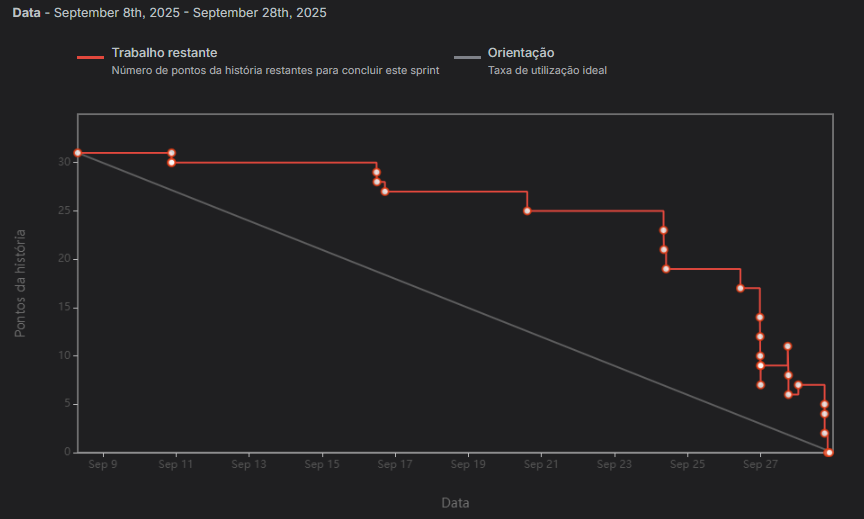
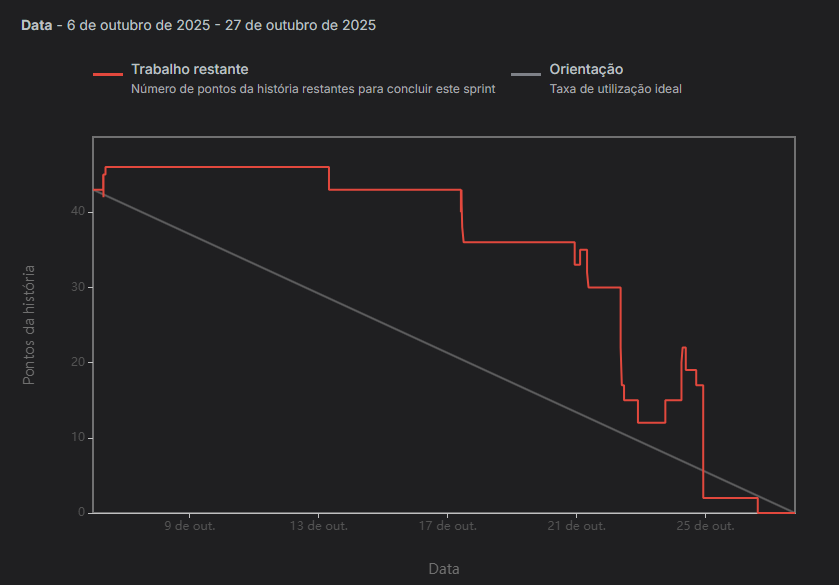
doc: Adicionando documentação da segunda sprint
On branch sprint2
Changes to be committed:
- modified:   .gitmodules
- modified:   Backend
- modified:   Frontend
- modified:   Processador-de-dados
- modified:   README.md
- new file:   Receptor-de-dados
- modified:   mgt/burndown.png

diff --git a/README.md b/README.md
@@ -15,36 +15,32 @@ No início do desenvolvimento da aplicação de controle de ponto eletrônico, a
 <span id="objetivos">
 
 # 🎯 Objetivos da Sprint
+O principal objetivo nessa sprint a ser comprido era **proporcionar a recepção de dados à partir de uma conexão mqtt**. E de forma adicional também desenvolvemos a **Dashboard da aplicação.**
+
 Os requisitos funcionais atendidos nesta sprint foram:
 
-- ✔ **RFN04. Configuração de parâmetros de estações:** <br> A aplicação deve ter a capacidade de configurar individualmente a unidade de medida dos parâmetros recebidos além dos nomes de suas respectivas estações; <br> <br>
-- ✔ **RFN05. Alertas meteorológicos:** <br> A aplicação deve enviar alertas e notificações baseadas em condições meteorológicas específicas; <br> <br>
-- ✔ **RFN07. Cadastro e gestão de administradores:** <br> A aplicação deve ter a capacidade de cadastrar e gerenciar usuários administradores; <br> <br>
+- ✔ **RFN02. Coleta de dados meteorológicos:** <br> A aplicação deve ter a capacidade de coletar e armazenar os dados enviados pelas estações meteorológicas, a partir de diferentes sensores (dinâmico), de forma segura e persistente bem como interpretar tais dados; <br> <br>
+- ✔ **RFN03. Dashboards:** <br> A aplicação deve conter uma dashboard que apresenta de forma gráfica os parâmetros das estações, individualmente e de forma geral; <br> <br>
 
 <br> 
 
 <span id="entregas">
 
 # 📲 Entregas
-Durante esta sprint, o time entregou artefatos SCRUM validados, como o Backlog do Produto, o Backlog das Sprints e as User Stories, com a participação direta do P.O. e comunicação constante com o cliente. Para entender e alinhar as expectativas do cliente, foi criado um protótipo inicial no Figma, que ajudou a definir a identidade visual e o design do sistema. Esse protótipo foi validado com o cliente e traduzido em uma aplicação React, integrando as funcionalidades acordadas para esta sprint.
+Durante esta sprint, o time entregou artefatos SCRUM validados, como o Backlog do Produto, o Backlog das Sprints e as User Stories, com a participação direta do P.O. e comunicação constante com o cliente. Para entender e alinhar as expectativas do cliente. Dito isso, juntamente ao cliente, acordamos entregar as seguintes funcionalidades:
 
-### RF 04: Configuração de parâmetros de estações
-O usuário tem a capacidade de cadastrar parâmetros e atrelá-los às estações, definindo quais estações carregam quais tipos de parâmetros, além de, claro, possuir a capacidade de cadastrar e administrar as estações do sistema;
+### RF 02: Coleta de dados meteorológicos:
+A aplicação deve ter a capacidade de coletar e armazenar os dados enviados pelas estações meteorológicas, a partir de diferentes sensores (dinâmico), de forma segura e persistente bem como interpretar tais dados;
 
-### RF 05: Alertas meteorológicos
-O usuário tem a capacidade de cadastrar e administrar tipos de alertas meteorológicos na aplicação dessa forma dando a capacidade do usuário de 
-preparar alertas específicos após cada recepção; 
-
-### RF 03: Cadastro e gestão de administradores
-O usuário tem a capacidade de cadastrar e gerir administradores da aplicação. Apenas esses são capazes de realizar os cadastros préviamente citados.
-
+### RF 03: Dashboards:
+A aplicação deve conter uma dashboard que apresenta de forma gráfica os parâmetros das estações, individualmente e de forma geral;
 
 <br />
 
 <span id="metricas">
 
 # 📈 Métricas do Time
-A sprint foi composta por 8 user stories e 27 tasks. Embora o gráfico de burndown mostre que o trabalho foi concentrado no final, a realidade é que o time começou a trabalhar antes da sprint, realizando atividades como a criação do mockup, definição de DoR e DoD, elaboração do Backlog da Sprint, e configuração das branches de backend e frontend.
+A sprint foi composta por 3 user stories e 14 tasks. Embora o gráfico de burndown mostre que o trabalho foi concentrado no final, a realidade é que o time começou a trabalhar antes da sprint, realizando atividades como a criação do mockup, definição de DoR e DoD, elaboração do Backlog da Sprint, e configuração das branches de backend e frontend.
 
 O gráfico de burndown mostra a evolução do trabalho ao longo da sprint. A linha horizontal representa o tempo, ou seja, as datas da sprint, enquanto a linha vertical indica os pontos de história que representam o esforço total planejado para a sprint. A linha cinza mostra a taxa de progresso ideal, indicando como o trabalho deveria ser realizado de maneira constante ao longo dos dias. Já a linha vermelha indica o trabalho realizado, que no gráfico reflete a conclusão das User Stories 100% finalizadas. O pico no gráfico ocorre quando as User Stories são concluídas, explicando a aparente concentração de trabalho no final da sprint. Na prática, a maior parte das subtasks já estava concluída antes das últimas entregas.
 
@@ -62,14 +58,9 @@ O gráfico de burndown mostra a evolução do trabalho ao longo da sprint. A lin
 
 | **RFN** | **Rank** | **Prioridade** | **User Story** | **Estimativa** | **Sprint** | **Critérios de Aceitação** |
 |---------|----------|----------------|----------------|----------------|------------|---------------------------|
-| 04 | 01 | Alta | Eu como ADMINISTRADOR e USUÁRIO COMUM desejo visualizar as estações conectadas | 08 | 1 | - TODOS OS USUÁRIOS devem visualizar as estações conectadas; <br> - Todas as estações devem exibir o nome e imagem referente; <br> - Paginação contendo 15 itens cada; Barra de pesquisa por nome; |
-| 04 | 02 | Alta | Eu como ADMINISTRADOR E USUÁRIO COMUM desejo visualizar os parâmetros dentro de uma estação. | 03 | 1 | - TODOS OS USUÁRIOS devem visualizar os parâmetros das estações e suas devidas unidades se cadastradas; <br> - Parâmetros sem unidade de medida definida devem ser sinalizados por meio um elemento gráfico; |
-| 04 | 03 | Alta | Eu como ADMINISTRADOR desejo cadastrar e alterar parâmetros de uma estação. | 05 | 1 | - O ADMINISTRADOR deve conseguir alterar as unidades de medida dos parâmetros de uma estação em específico; <br> - Os parâmetros não alterados devem permanecer com seus respectivos valores após alteração de outros; <br> - Deve ser gravada a data da alteração de tal parâmetro; |
-| 04 | 04 | Alta | Eu como ADMINISTRADOR desejo alterar o nome e imagem da estação conectada. | 02 | 1 | - O ADMINISTRADOR deve conseguir alterar o nome e imagem de uma estação; <br> - O nome ou imagem não alterado deve permanecer o mesmo após alteração do outro; <br> - Nome é um campo obrigatório; |
-| 07 | 05 | Alta | Eu como ADMINISTRADOR desejo efetuar login para acessar funcionalidades exclusivas do meu papel. | 08 | 1 | - O ADMINISTRADOR deve conseguir efetuar login devidamente na aplicação; |
-| 07 | 06 | Baixa | Eu como SUPER ADMINISTRADOR desejo cadastrar outros usuários administradores para facilitar a administração da aplicação. | 03 | 1 | - O SUPER ADMINISTRADOR deve conseguir cadastrar devidamente um novo administrador; | 
-| 07 | 07 | Baixa | Eu como ADMINISTRADOR desejo alterar minhas próprias informações de cadastro para a manutenção do perfil. | 02 | 1 | - O ADMINISTRADOR deve conseguir alterar suas informações com sucesso; |
-| 05 | 08 | Baixa |Eu como ADMINISTRADOR desejo cadastrar tipos de alertas para visualizar que tipo de alertas os usuários poderão receber. | 03 | 1 | - O ADMINISTRADOR deve conseguir cadastrar/editar tipos com sucesso; <br> - TODOS OS USUÁRIOS devem poder visualizar os tipos de alertas cadastrados | 
+| 02 | 09 | Alta | Eu como ADMINISTRADOR desejo receber dados simulados para alimentar a aplicação. | 13 | 2 | A aplicação deve receber dados (mockados por hora) dos sensores devidamente; <br> - A aplicação deve armazenar os dados da aplicação devidamente; <br> - A aplicação deve garantir a recepção dos dados mesmo sob requisições grandes; |
+| 02 | 10 | Alta | Eu como ADMINISTRADOR E USUÁRIO COMUM desejo que os dados recebidos sejam interpretados para dados palpáveis. | 05 | 2 | - A aplicação deve interpretar os dados recebidos conforme os parâmetros configurados por estação. | 
+| 03 | 11 | Média | Eu como ADMINISTRADOR E USUÁRIO COMUM desejo visualizar uma dashboard com gráficos informativos sobre a variação dos parâmetros das estações. | 08 | 2 | As dashboards devem possuir filtros por período e estação; <br> - O usuário deve ter a capacidade de definir a unidade de medida padrão da dashboard; <br> - As dashboards devem apresentar conceitos estatísticos; | 
 
 
 <span id="links">
@@ -77,8 +68,9 @@ O gráfico de burndown mostra a evolução do trabalho ao longo da sprint. A lin
 # 🔗 Links úteis
 
 - Tags geradas em cada repositório que simbolizam o fim da 1ª sprint:
-  - [Repositório frontend](https://github.com/SkyFlyTeam/Atmos-frontend/releases/tag/v1.0)
-  - [Repositório backend](https://github.com/SkyFlyTeam/Atmos-backend/releases/tag/v1.0)
-  - [Repositório processador-de-dados](https://github.com/SkyFlyTeam/Atmos-processador-dados/releases/tag/v1.0)
+  - [Repositório frontend](https://github.com/SkyFlyTeam/Atmos-frontend/releases/tag/v2.0)
+  - [Repositório backend](https://github.com/SkyFlyTeam/Atmos-backend/releases/tag/v2.0)
+  - [Repositório processador-de-dados](https://github.com/SkyFlyTeam/Atmos-processador-dados/releases/tag/v2.0)
+  - [Repositório receptor-de-dados](https://github.com/SkyFlyTeam/Atmos-receptor-dados/releases/tag/v2.0)
 <br>
 
